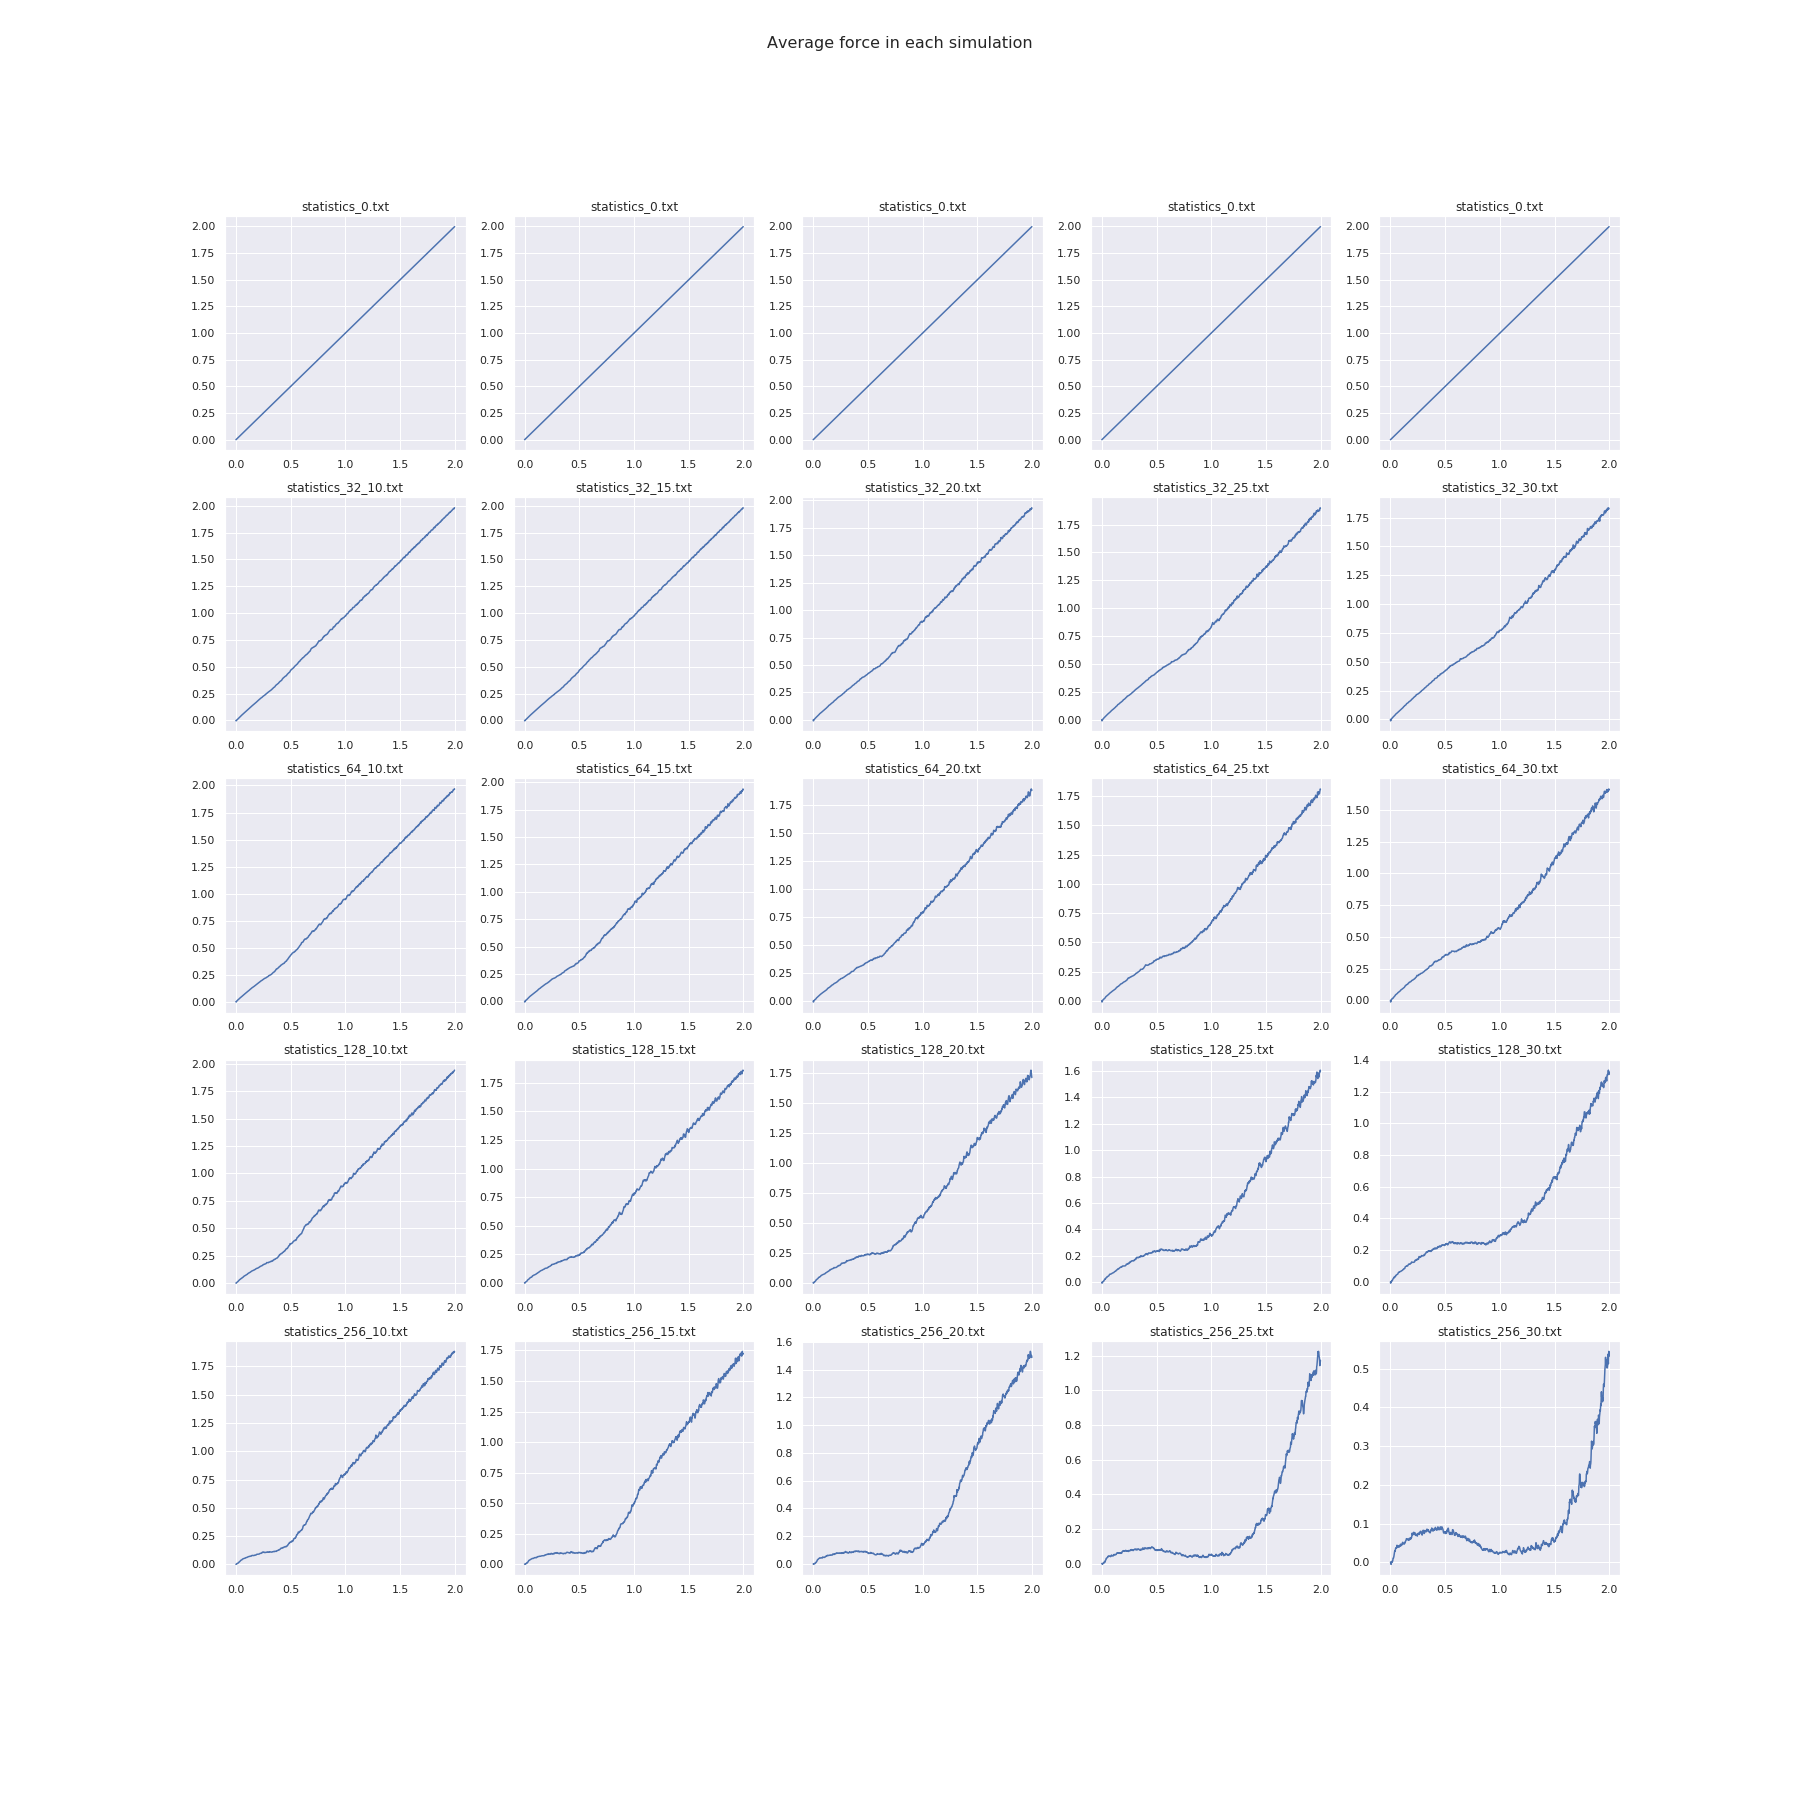
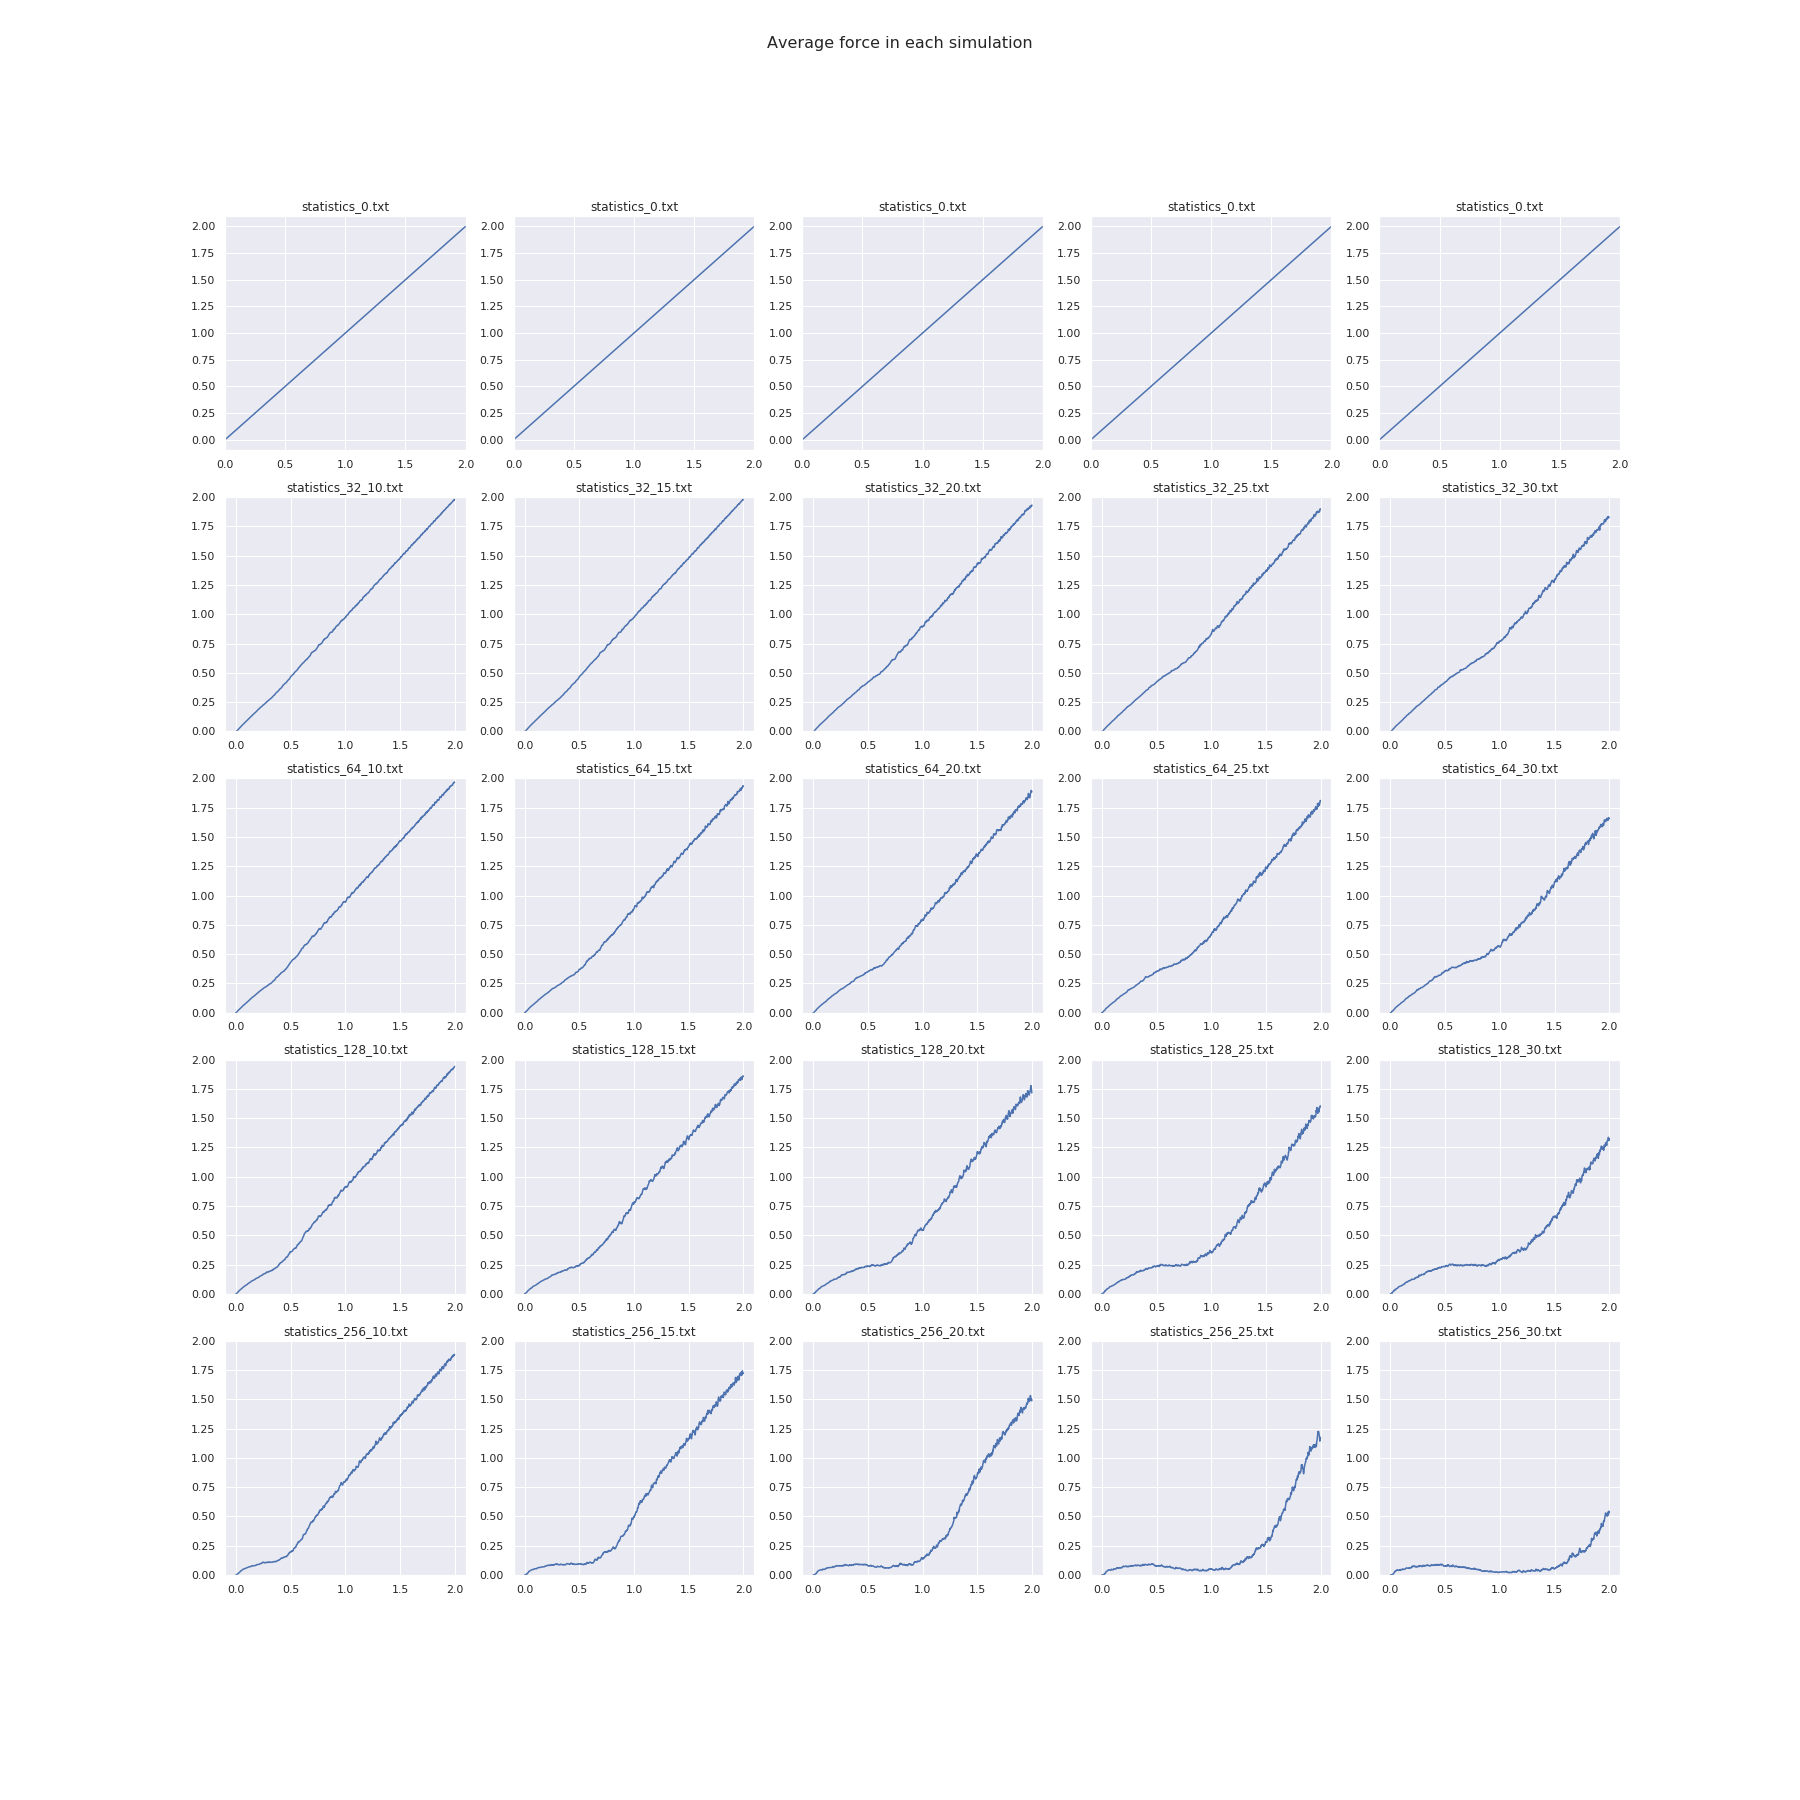
Fixed range of output graphs to [0, 2.0]

diff --git a/assignment2_md_pinning/generate_plots.py b/assignment2_md_pinning/generate_plots.py
@@ -39,6 +39,7 @@ for idx, force in enumerate(forces):
     ax = plt.subplot(len(sizes) + 1, len(forces), plt_idx)
     ax.set_title("statistics_0.txt")
     sns.lineplot(x=statistics[0][0][:, 0], y=statistics[0][0][:, 1])
+    plt.xlim([0, 2.0])
     plt_idx += 1
 
 for size in sorted(list(statistics.keys())[:-1]):
@@ -46,6 +47,7 @@ for size in sorted(list(statistics.keys())[:-1]):
         ax = plt.subplot(len(sizes) + 1, len(forces), plt_idx)
         ax.set_title("statistics_" + str(size) + "_" + str(int(force)) + ".txt")
         sns.lineplot(x=statistics[size][force][:, 0], y=statistics[size][force][:, 1])
+        plt.ylim([0, 2.0])
         plt_idx += 1
 plt.savefig(directory + "output_graphs.png")
 plt.show()
